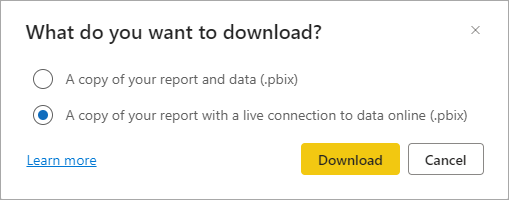
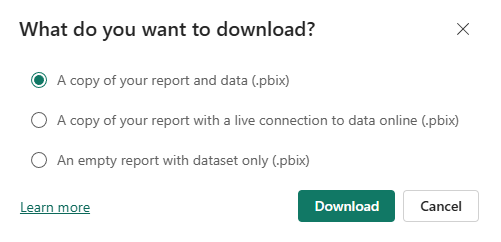
Download semantic model updates (#14806)
* Update download modes for .pbix files

Clarified download modes for .pbix files and added a new mode for empty reports with datasets.

* Add files via upload

* Apply suggestions from PR review

Fix typo.

---------

diff --git a/powerbi-docs/create-reports/service-export-to-pbix.md b/powerbi-docs/create-reports/service-export-to-pbix.md
@@ -22,7 +22,7 @@ In Power BI Desktop, you can publish a report from your local computer to the Po
 There are two ways to download a .pbix file, each with different results and considerations:
 
 - Download a [report as a .pbix file](#download-a-report-as-a-pbix-file). Depending on the configuration, this file might include a semantic model.
-- Download a [.pbix file from a semantic model](#download-a-pbix-file-from-a-semantic-model).
+- Download an [empty report as a .pbix file from a semantic model](#download-a-pbix-file-from-a-semantic-model).
 
 ## Prerequisites
 
@@ -37,7 +37,7 @@ To download a report as a .pbix file, follow these steps:
 
     If this option isn't shown or is disabled, you're likely trying to download a .pbix in a scenario listed under [Limitations](#limitations) later in this article.
 
-1. In the dialog box, choose what type of download you want. You can choose between downloading the report including the data or the report with a live connection to the data. See [Download modes](#download-modes) in this article for more information. Pick a mode and select **Download** to start the download process.
+1. In the dialog box, choose what type of download you want. See [Download modes](#download-modes) in this article for more information. Pick a mode and select **Download** to start the download process.
 
     :::image type="content" source="media/service-export-to-pbix/power-bi-export-to-pbix-download-options.png" alt-text="A screenshot of the dialog that provides the choice to download the report including the data or the report with a live connection to the data.":::
 
@@ -46,12 +46,13 @@ To download a report as a .pbix file, follow these steps:
 
 ### Download modes
 
-To download a report .pbix file, two **modes** are available:
+To download a report .pbix file, three **modes** are available:
 
 - **A copy of the report and data**. Choosing this mode results in downloading a .pbix file that includes both the report you're downloading and the data on which the report is based.
 - **A copy of the report with a live connection to the data online**. Choosing this mode results in downloading a .pbix file that contains the report you're downloading, but no data. Instead, the .pbix has a live connection to the semantic model in the Power BI service. This mode is especially useful in situations in which Power BI Desktop would be unable to open the .pbix file if the data was included, such as for reports based on a semantic model that is configured for [incremental refresh](../connect-data/incremental-refresh-configure.md).
+- **An empty report with dataset only**. Choosing this mode allows you to just download dataset associated with the report, but not the report built on top. This can be useful if a user just wants to download a semantic model separate from a report. 
 
-Both modes aren't available in all scenarios. If a mode isn't available, a tooltip explains why. For example, here's the message that you see if you download a report that's based on a semantic model that's configured for incremental refresh:
+All modes aren't available in all scenarios. If a mode isn't available, a tooltip explains why. For example, here's the message that you see if you download a report that's based on a semantic model that's configured for incremental refresh:
 
 "This option isn't available because the data model has incremental refresh enabled."
 
@@ -79,6 +80,9 @@ To download a semantic model as a .pbix file, follow these steps:
 
 1. While the report is downloading, a status banner displays the progress. The default name of the file matches the title of the report.
 1. If you haven't already, [install Power BI Desktop](../fundamentals/desktop-get-the-desktop.md), and open the .pbix file in Power BI Desktop.
+
+> [!NOTE]
+> Downloading a .pbix file from a semantic model will give you an empty report with the dataset only. To download the report with the dataset, navigate to that specific report and download the .pbix file from there.  
 
 ## Parity between Power BI Desktop and the service
 